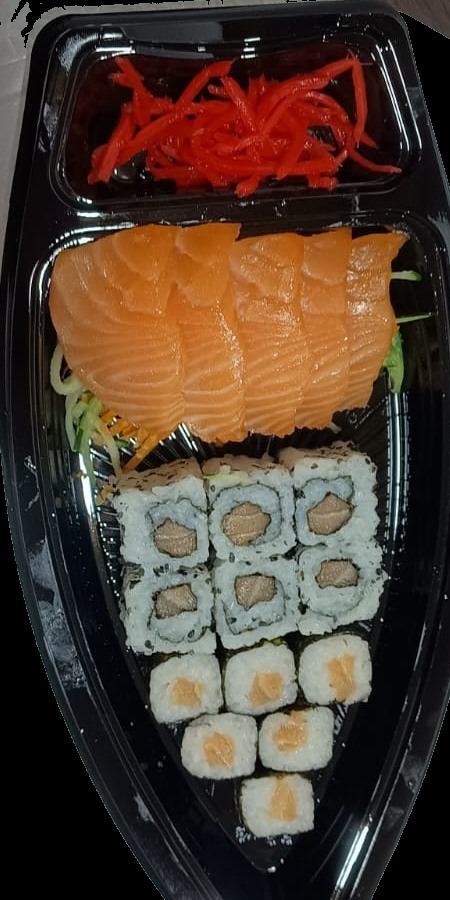
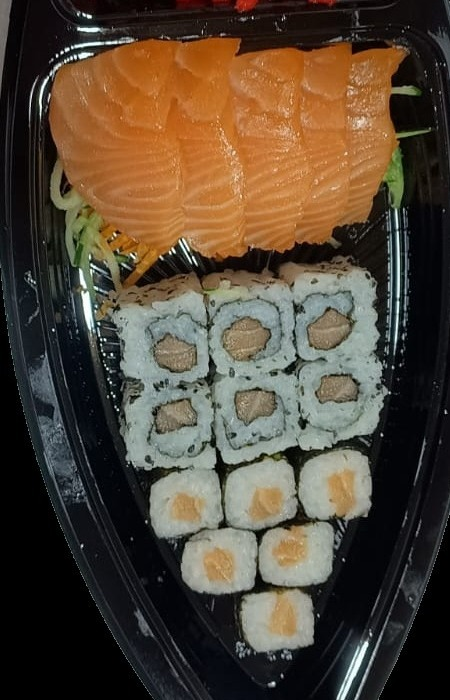
Recorte inteligente das fotos + link direto pra Maps/Waze na localização
- Recorte por brilho (detecta onde está o prato de verdade) em vez de só
  tentar remover fundo preto uniforme — corrige Temaki Salmão Completo,
  Sushi Filadélfia, Joy Salmão e Combinado Casal Hot, que ficavam com o
  prato pequeno dentro do quadro por causa de fundo escuro texturizado
- Recorte manual das barcas removendo a ponta vazia da bandeja e o
  compartimento de gengibre (não é comida, então nada do prato se perde)
- "Localização" na seção Faça seu Pedido agora abre rota direto no Google
  Maps (e tem link separado "Abrir no Waze"), usando as mesmas coordenadas
  do restaurante já usadas no cálculo de entrega

diff --git a/src/app/App.tsx b/src/app/App.tsx
@@ -13,6 +13,11 @@ import { BARCAS, COMBINADOS, TEMAKIS, HOT_ROLLS, URAMAKIS, HOSSOMAKIS_OUTROS, DE
 
 const WHATSAPP_NUMBER = "5511994597259";
 
+// mesmas coordenadas usadas no Worker pro cálculo de rota (RESTAURANT_ORIGIN) — usar lat/lon
+// direto em vez do endereço em texto porque o número exato dessa rua não está bem indexado
+// no Google/Waze, então buscar pelo texto às vezes cai num ponto errado da rua.
+const RESTAURANT_COORDS = "-23.4737,-46.6695";
+
 // depoimento: visitante envia -> Cloudflare Worker guarda como pendente, dispara
 // (server-side, via CallMeBot) um aviso automático no WhatsApp do dono com um link
 // de aprovação de 1 toque -> nada é publicado até ele tocar no link e aprovar.
@@ -646,14 +651,32 @@ export default function App() {
               {[
                 { icon: <Phone size={18} className="text-primary" />, label: "WhatsApp", val: "(11) 99459-7259" },
                 { icon: <Clock size={18} className="text-primary" />, label: "Horário de delivery", val: "Segunda a Sábado · 19h30 às 23h" },
-                { icon: <MapPin size={18} className="text-primary" />, label: "Localização", val: "Rua Marina Lemos de Abreu, 68 B · Jardim Centenário" },
+                {
+                  icon: <MapPin size={18} className="text-primary" />, label: "Localização",
+                  val: "Rua Marina Lemos de Abreu, 68 B · Jardim Centenário",
+                  href: `https://www.google.com/maps/dir/?api=1&destination=${RESTAURANT_COORDS}`,
+                  wazeHref: `https://waze.com/ul?ll=${RESTAURANT_COORDS}&navigate=yes`,
+                },
                 { icon: <Bike size={18} className="text-primary" />, label: "Taxa de entrega", val: "Até 20 km: R$ 7,00 · Acima disso, valor combinado" },
               ].map((c) => (
                 <div key={c.label} className="flex items-start gap-4 border-b border-border pb-5">
                   <div className="w-10 h-10 border border-primary/30 flex items-center justify-center flex-shrink-0">{c.icon}</div>
-                  <div>
+                  <div className="min-w-0">
                     <p className="text-muted-foreground text-xs tracking-widest uppercase mb-1">{c.label}</p>
-                    <p className="text-foreground text-sm">{c.val}</p>
+                    {c.href ? (
+                      <>
+                        <a href={c.href} target="_blank" rel="noopener noreferrer"
+                          className="text-foreground text-sm hover:text-primary transition-colors underline decoration-dotted underline-offset-4">
+                          {c.val}
+                        </a>
+                        <a href={c.wazeHref} target="_blank" rel="noopener noreferrer"
+                          className="block text-primary text-xs mt-1 hover:brightness-110 transition-all">
+                          Abrir no Waze
+                        </a>
+                      </>
+                    ) : (
+                      <p className="text-foreground text-sm">{c.val}</p>
+                    )}
                   </div>
                 </div>
               ))}
